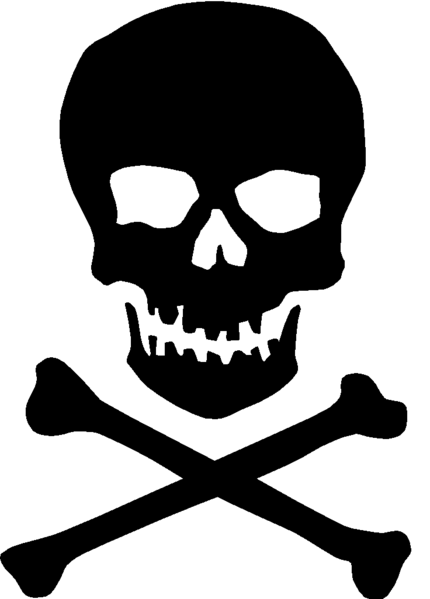
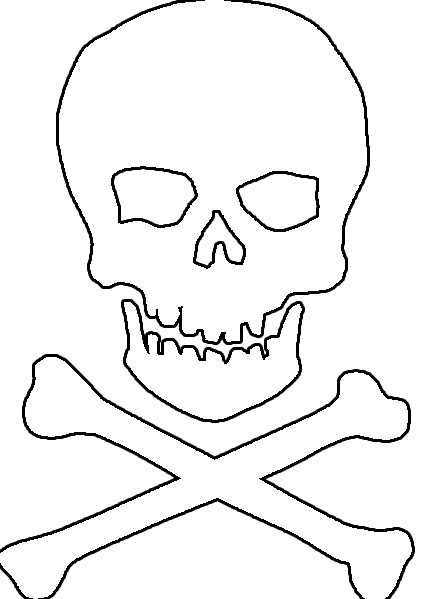
added skulls, no apparent bugs

diff --git a/assets/javascript/game.js b/assets/javascript/game.js
@@ -216,30 +216,35 @@ var counterAttack = function() {
             /* CHANGE COLORS, MOVE CARD TO GRAVEYARD CHANGE HP TO 0 */
             $(".fighterGraveyard").css("background-color", "#009933");
             $(".fighterGraveyard").append($(".fighterCard"));
+            $(".fighterCard").append($("<img class='skull' src='assets/images/skull.png' />"));
             $(".fighterGraveyard").addClass("character");
             $(".fighterHP").empty().append(player.healthPoints);
         }
         else if(player.class === "wizard") {
             $(".wizardGraveyard").css("background-color", "#009933");
             $(".wizardGraveyard").append($(".wizardCard"));
+            $(".wizardCard").append($("<img class='skull' src='assets/images/skull.png' />"));
             $(".wizardGraveyard").addClass("character");
             $(".wizardHP").empty().append(player.healthPoints);
         }
         else if(player.class === "cleric") {
             $(".clericGraveyard").css("background-color", "#009933");
             $(".clericGraveyard").append($(".clericCard"));
+            $(".clericCard").append($("<img class='skull' src='assets/images/skull.png' />"));
             $(".clericGraveyard").addClass("character");
             $(".clericHP").empty().append(player.healthPoints);
         }
         else if(player.class === "rogue") {
             $(".rogueGraveyard").css("background-color", "#009933");
             $(".rogueGraveyard").append($(".rogueCard"));
+            $(".rogueCard").append($("<img class='skull' src='assets/images/skull.png' />"));
             $(".rogueGraveyard").addClass("character");
             $(".rogueHP").empty().append(player.healthPoints);
         }  
         /* CHANGE PLAYER COMBAT ZONE COLORS, REMOVE CARD, SAY YOU LOSE */
         player.active = false;
         $(".playerDamage").empty();
+        $(".enemyDamage").empty();
         $(".characterChosen").empty();
         $(".characterChosen").css("background-color", "");
         $(".characterChosen").removeClass("character");
@@ -284,28 +289,28 @@ var dealDamage = function() {
             /* CHANGE COLORS, MOVE CARD TO GRAVEYARD CHANGE HP TO 0 */
             $(".fighterGraveyard").css("background-color", "#990000");
             $(".fighterGraveyard").append($(".fighterCard"));
-
+            $(".fighterCard").append($("<img class='skull' src='assets/images/skull.png' />"));
             $(".fighterGraveyard").addClass("character");
             $(".fighterHP").empty().append(enemy.healthPoints);
         }
         else if(enemy.class === "wizard") {
             $(".wizardGraveyard").css("background-color", "#990000");
             $(".wizardGraveyard").append($(".wizardCard"));
-
+            $(".wizardCard").append($("<img class='skull' src='assets/images/skull.png' />"));
             $(".wizardGraveyard").addClass("character");
             $(".wizardHP").empty().append(enemy.healthPoints);
         }
         else if(enemy.class === "cleric") {
             $(".clericGraveyard").css("background-color", "#990000");
             $(".clericGraveyard").append($(".clericCard"));
-
+            $(".clericCard").append($("<img class='skull' src='assets/images/skull.png' />"));
             $(".clericGraveyard").addClass("character");
             $(".clericHP").empty().append(enemy.healthPoints);
         }
         else if(enemy.class === "rogue") {
             $(".rogueGraveyard").css("background-color", "#990000");
             $(".rogueGraveyard").append($(".rogueCard"));
-            $(".rogueGraveyard").append(
+            $(".rogueCard").append($("<img class='skull' src='assets/images/skull.png' />"));
             $(".rogueGraveyard").addClass("character");
             $(".rogueHP").empty().append(enemy.healthPoints);
         }
@@ -316,8 +321,7 @@ var dealDamage = function() {
         $(".enemyChosen").removeClass("character");
         /* IF PLAYER IS DEAD, SAY YOU LOSE, OTHERWISE SAY CHOOSE NEXT OPPONENT */
         if(player.healthPoints === 0) {
-            $(".vsText").text("YOU LOSE")
-            ;
+            $(".vsText").text("YOU LOSE");
             $(".playerDamage").empty();
         }
         else {
@@ -371,6 +375,7 @@ var reset = function() {
     Object.assign(enemy, resetObject);
     $(".playerDamage").empty();
     $(".enemyDamage").empty();
+    $(".skull").remove();
     fighter.active = false;
     wizard.active = false;
     cleric.active = false;

diff --git a/assets/css/style.css b/assets/css/style.css
@@ -3,7 +3,6 @@ body {
     background-size: cover;
     background-repeat: no-repeat;
 }
-
 .container {
     font-family: 'MedievalSharp', cursive;
     text-align: center;
@@ -19,16 +18,22 @@ body {
     padding: 5px;
     width: 100%;
 }
-sword {
-    display: block;
-    margin-left: auto;
-    margin-right: auto;
-    margin-top: 20px;
-    width: 100%;
+.card {
+    position: relative;
+    top: 0px;
+    left: 0px;
+}
+.skull {
+    text-align: center;
+    position: absolute;
+    margin: auto;
+    width: 80%;
+    top: 5px;
+    left: 5%;
+    right: 5%;
 }
 .card-text {
     font-weight: bold;
-    text-align: center;
     font-size: 20px;
 }
 .HP {
@@ -58,7 +63,6 @@ sword {
     float: right;
     margin-right: -15px;
 }
-
 .vs {
     margin: auto;
 }

diff --git a/index.html b/index.html
@@ -139,13 +139,13 @@
                     </div>
                 </div>
                 <div class="row graveyard">
-                    <div class="col-md fighterGraveyard">
+                    <div class="col fighterGraveyard">
                     </div>
-                    <div class="col-md wizardGraveyard">
+                    <div class="col wizardGraveyard">
                     </div>
-                    <div class="col-md clericGraveyard">
+                    <div class="col clericGraveyard">
                     </div>
-                    <div class="col-md rogueGraveyard">
+                    <div class="col rogueGraveyard">
                     </div>
                 </div>
                 <div class="row">
